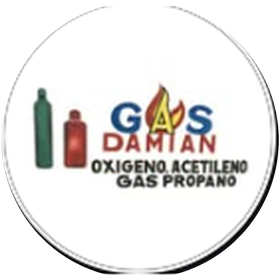
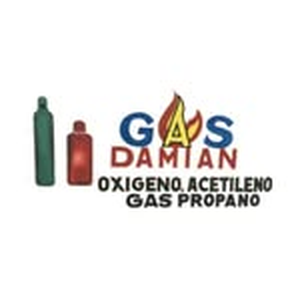
feat: Gas Damian Admin, el programa del dueno (productos y precios, facturas, cobros, reportes de ventas y usuarios)
Tambien usa el logo del perfil de Instagram de Gas Damian.

diff --git a/src/renderer/components/Layout.tsx b/src/renderer/components/Layout.tsx
@@ -1,7 +1,7 @@
 import React, { useEffect, useState } from "react";
 import { NavLink, Outlet } from "react-router-dom";
 import { isPreviewMode } from "../lib/api";
-import { EDICION, esColmado, esVariantCaja, manejaEnvases, operaCaja, soloVentas } from "../lib/variant";
+import { adminVentas, EDICION, esColmado, esVariantCaja, manejaEnvases, operaCaja, soloVentas } from "../lib/variant";
 import { useAuth } from "../lib/auth";
 import ConnectionBanner from "./ConnectionBanner";
 import Logo from "./Logo";
@@ -100,7 +100,7 @@ const NAV_CAJA = [
   { section: "Sistema", items: [{ to: "/configuracion", label: "Configuracion" }] },
 ];
 
-// Punto de Venta Dara: solo vender (con su caja) y clientes.
+// Gas Damian: solo vender (con su caja) y clientes.
 const NAV_PUNTO_VENTA = [
   {
     section: "Ventas",
@@ -117,6 +117,35 @@ const NAV_PUNTO_VENTA = [
     ],
   },
   { section: "Sistema", items: [{ to: "/configuracion", label: "Configuracion" }] },
+];
+
+// Gas Damian Admin: el programa del dueno.
+const NAV_ADMIN_VENTAS = [
+  {
+    section: "Ventas",
+    items: [
+      { to: "/caja", label: "Punto de venta" },
+      { to: "/facturas", label: "Facturas", end: true },
+      { to: "/cuentas-por-cobrar", label: "Cuentas por Cobrar" },
+      { to: "/cierres-caja", label: "Cierres de Caja" },
+    ],
+  },
+  {
+    section: "Clientes",
+    items: [
+      { to: "/clientes", label: "Clientes" },
+      { to: "/botellas-fiadas", label: "Botellas fiadas" },
+    ],
+  },
+  {
+    section: "Productos",
+    items: [
+      { to: "/productos", label: "Productos y precios" },
+      { to: "/envases", label: "Control de Envases" },
+    ],
+  },
+  { section: "Reportes", items: [{ to: "/reportes/ventas", label: "Reporte de Ventas" }] },
+  { section: "Sistema", items: [{ to: "/configuracion", label: "Configuracion y usuarios" }] },
 ];
 
 // Darasistema Colmado: un solo programa, con la caja primero.
@@ -181,7 +210,7 @@ export default function Layout() {
   const { usuario, logout } = useAuth();
 
   const mostrarCaja = esVariantCaja || usuario?.rol === "CAJERO";
-  const nav = (soloVentas ? NAV_PUNTO_VENTA : mostrarCaja ? NAV_CAJA : esColmado ? NAV_COLMADO : NAV_COMPLETO)
+  const nav = (adminVentas && usuario?.rol === "ADMIN" ? NAV_ADMIN_VENTAS : soloVentas ? NAV_PUNTO_VENTA : mostrarCaja ? NAV_CAJA : esColmado ? NAV_COLMADO : NAV_COMPLETO)
     .filter((g) => g.section !== "Sistema" || usuario?.rol === "ADMIN")
     .map((g) => ({ ...g, items: g.items.filter((i) => manejaEnvases || i.to !== "/envases") }));
   const [paleta, setPaleta] = useState(false);

diff --git a/src/renderer/App.tsx b/src/renderer/App.tsx
@@ -5,7 +5,7 @@ import { AuthProvider, useAuth } from "./lib/auth";
 import { CajaProvider } from "./lib/caja";
 import CierreCaja from "./pages/CierreCaja/CierreCaja";
 import CierresCaja from "./pages/CierreCaja/CierresCaja";
-import { esColmado, esVariantCaja, manejaEnvases, operaCaja, soloVentas } from "./lib/variant";
+import { adminVentas, esColmado, esVariantCaja, manejaEnvases, operaCaja, soloVentas } from "./lib/variant";
 import Layout from "./components/Layout";
 import Login from "./pages/Login/Login";
 import ConfigurarConexion from "./pages/Configuracion/ConfigurarConexion";
@@ -55,7 +55,7 @@ const RUTAS_COMUNES = [
   ...(manejaEnvases ? [{ path: "/envases", element: <ControlEnvases /> }] : []),
 ];
 
-// Punto de Venta Dara: vender, su caja y clientes (la factura se abre desde el cliente para reimprimir).
+// Gas Damian: vender, su caja y clientes (la factura se abre desde el cliente para reimprimir).
 const RUTAS_PUNTO_VENTA = [
   { path: "/caja", element: <Caja /> },
   { path: "/cierre-caja", element: <CierreCaja /> },
@@ -63,6 +63,17 @@ const RUTAS_PUNTO_VENTA = [
   { path: "/clientes/:id", element: <DetalleCliente /> },
   { path: "/botellas-fiadas", element: <BotellasFiadas /> },
   { path: "/facturas/:id", element: <DetalleFactura /> },
+];
+
+// Gas Damian Admin: lo que el dueno agrega a la caja (sin contabilidad, compras ni gastos).
+const RUTAS_ADMIN_VENTAS = [
+  { path: "/facturas", element: <ListaFacturas /> },
+  { path: "/cuentas-por-cobrar", element: <CuentasPorCobrar /> },
+  { path: "/cierres-caja", element: <CierresCaja /> },
+  { path: "/productos", element: <ListaProductos /> },
+  { path: "/envases", element: <ControlEnvases /> },
+  { path: "/reportes/ventas", element: <ReporteVentas /> },
+  { path: "/configuracion", element: <Configuracion /> },
 ];
 
 // Rutas adicionales solo para administradores (no cajeros, no la variante Caja).
@@ -96,8 +107,8 @@ function RutasProtegidas({ modoNube }: { modoNube: boolean }) {
   const hijos = usuario
     ? [
         ...(soloVentas ? RUTAS_PUNTO_VENTA : RUTAS_COMUNES),
-        ...(restringido ? rutaConexionCaja : RUTAS_ADMIN_EXTRA),
-        { path: "*", element: <Navigate to={restringido || esColmado ? "/caja" : "/"} replace /> },
+        ...(adminVentas ? (restringido ? [] : RUTAS_ADMIN_VENTAS) : restringido ? rutaConexionCaja : RUTAS_ADMIN_EXTRA),
+        { path: "*", element: <Navigate to={restringido || esColmado || soloVentas ? "/caja" : "/"} replace /> },
       ]
     : [];
 

diff --git a/src/renderer/lib/variant.ts b/src/renderer/lib/variant.ts
@@ -3,13 +3,16 @@
 //   caja        = Cajapunto1 (la caja del negocio de gas)
 //   colmado     = Darasistema Colmado (la oficina del colmado)
 //   cajacolmado = Cajapunto1 Colmado (la caja del colmado: factura rapida en tabla)
-//   puntoventa  = Punto de Venta Dara (solo vender y clientes; factura en hoja carta con firmas)
-export type Variante = "caja" | "full" | "colmado" | "cajacolmado" | "puntoventa";
+//   puntoventa  = Gas Damian (la caja: solo vender y clientes; factura en hoja carta con firmas)
+//   puntoventaadmin = Gas Damian Admin (el dueno: ventas, clientes, productos y precios, reportes de ventas y usuarios)
+export type Variante = "caja" | "full" | "colmado" | "cajacolmado" | "puntoventa" | "puntoventaadmin";
 export const APP_VARIANT: Variante = (import.meta.env.VITE_APP_VARIANT as Variante) || "full";
 // Es el programa de la caja (pantallas de cajero; la oficina queda en el otro programa).
 export const esVariantCaja = APP_VARIANT === "caja" || APP_VARIANT === "cajacolmado" || APP_VARIANT === "puntoventa";
-// Solo vender y clientes (Punto de Venta Dara).
-export const soloVentas = APP_VARIANT === "puntoventa";
+// Gas Damian: su logo, factura en hoja carta y botellas fiadas (la caja y el programa del dueno).
+export const soloVentas = APP_VARIANT === "puntoventa" || APP_VARIANT === "puntoventaadmin";
+// Gas Damian Admin: ademas de vender, productos y precios, reportes de ventas y usuarios (sin contabilidad).
+export const adminVentas = APP_VARIANT === "puntoventaadmin";
 // Es para un colmado (productos con grupo y codigo de barras, sin envases).
 export const esColmado = APP_VARIANT === "colmado" || APP_VARIANT === "cajacolmado";
 // Abre, opera y cierra la caja en esta computadora.
@@ -23,6 +26,7 @@ const EDICIONES = {
   colmado: { nombre: "Darasistema Colmado", lema: "Administracion del colmado" },
   cajacolmado: { nombre: "Cajapunto1 Colmado", lema: "Facturacion rapida" },
   puntoventa: { nombre: "Gas Damian", lema: "Oxigeno · Acetileno · Gas propano" },
+  puntoventaadmin: { nombre: "Gas Damian Admin", lema: "Oxigeno · Acetileno · Gas propano" },
 } as const;
 export const EDICION = EDICIONES[APP_VARIANT];
 

diff --git a/scripts/set-variant.js b/scripts/set-variant.js
@@ -4,13 +4,14 @@ const path = require("path");
 // full = Darasistema (oficina, gas) · caja = Cajapunto1 · colmado = Darasistema Colmado (oficina del colmado)
 // cajacolmado = Cajapunto1 Colmado (la caja del colmado, factura en tabla)
 // puntoventa = Gas Damian (solo vender y clientes, con apertura y cierre de caja)
-const VARIANTES = ["full", "caja", "colmado", "cajacolmado", "puntoventa"];
+// puntoventaadmin = Gas Damian Admin (el dueno: ademas productos y precios, reportes de ventas y usuarios)
+const VARIANTES = ["full", "caja", "colmado", "cajacolmado", "puntoventa", "puntoventaadmin"];
 const variant = VARIANTES.includes(process.argv[2]) ? process.argv[2] : "full";
 const target = path.join(__dirname, "..", "electron", "variant.generated.ts");
 
 fs.writeFileSync(
   target,
-  `// Generado por scripts/set-variant.js antes de cada build. No editar a mano.\nexport const APP_VARIANT: "caja" | "full" | "colmado" | "cajacolmado" | "puntoventa" = "${variant}";\n`
+  `// Generado por scripts/set-variant.js antes de cada build. No editar a mano.\nexport const APP_VARIANT: "caja" | "full" | "colmado" | "cajacolmado" | "puntoventa" | "puntoventaadmin" = "${variant}";\n`
 );
 
 console.log(`[set-variant] electron/variant.generated.ts -> "${variant}"`);

diff --git a/src/renderer/pages/Productos/ListaProductos.tsx b/src/renderer/pages/Productos/ListaProductos.tsx
@@ -4,7 +4,7 @@ import type { Cuenta, Producto } from "../../lib/types";
 import { formatMoney } from "../../lib/format";
 import { Badge, Button, EmptyRow, Input, Modal, PageHeader, Select, Table } from "../../components/ui";
 import { useAuth } from "../../lib/auth";
-import { esColmado, esVariantCaja, GRUPOS_COLMADO } from "../../lib/variant";
+import { esColmado, esVariantCaja, GRUPOS_COLMADO, soloVentas } from "../../lib/variant";
 import { mensajeDeError } from "../../lib/api";
 import { ProveedoresDeProductoModal } from "../Proveedores/componentes";
 
@@ -48,7 +48,7 @@ function calcularPrecio(costo: number, margenPct: number): number {
 
 export default function ListaProductos() {
   const { usuario } = useAuth();
-  const verProveedores = !esVariantCaja && usuario?.rol === "ADMIN";
+  const verProveedores = !esVariantCaja && !soloVentas && usuario?.rol === "ADMIN";
   const [proveedoresDe, setProveedoresDe] = useState<Producto | null>(null);
   const [productos, setProductos] = useState<Producto[]>([]);
   const [cuentas, setCuentas] = useState<Cuenta[]>([]);

diff --git a/src/renderer/pages/Facturacion/ListaFacturas.tsx b/src/renderer/pages/Facturacion/ListaFacturas.tsx
@@ -4,6 +4,7 @@ import { api } from "../../lib/api";
 import type { Factura } from "../../lib/types";
 import { formatDate, formatMoney } from "../../lib/format";
 import { Badge, Button, EmptyRow, PageHeader, Table } from "../../components/ui";
+import { soloVentas } from "../../lib/variant";
 
 export default function ListaFacturas() {
   const [facturas, setFacturas] = useState<Factura[]>([]);
@@ -18,9 +19,16 @@ export default function ListaFacturas() {
         title="Facturas"
         subtitle="Facturacion de ventas con NCF e ITBIS"
         actions={
-          <Link to="/facturas/nueva">
-            <Button>+ Nueva Factura</Button>
-          </Link>
+          // Gas Damian factura desde el punto de venta
+          soloVentas ? (
+            <Link to="/caja">
+              <Button>+ Vender</Button>
+            </Link>
+          ) : (
+            <Link to="/facturas/nueva">
+              <Button>+ Nueva Factura</Button>
+            </Link>
+          )
         }
       />
 

diff --git a/electron/network/config.ts b/electron/network/config.ts
@@ -20,7 +20,7 @@ export const NUBE_URL_POR_DEFECTO = "https://darasistema.ranghd732.workers.dev";
 // actualizacion automatica nunca "pierde" de vista los datos de quien ya la usa.
 function configPorDefecto(): ConfigRed {
   const base = { puerto: 4500, nubeUrl: NUBE_URL_POR_DEFECTO };
-  if (APP_VARIANT !== "caja" && APP_VARIANT !== "cajacolmado" && APP_VARIANT !== "puntoventa" && fs.existsSync(path.join(app.getPath("userData"), "darasistema.db"))) {
+  if (APP_VARIANT !== "caja" && APP_VARIANT !== "cajacolmado" && APP_VARIANT !== "puntoventa" && APP_VARIANT !== "puntoventaadmin" && fs.existsSync(path.join(app.getPath("userData"), "darasistema.db"))) {
     return { ...base, modo: "SERVIDOR" };
   }
   return { ...base, modo: "NUBE" };

diff --git a/scripts/release.js b/scripts/release.js
@@ -20,6 +20,7 @@ const variantes = [
   { nombre: 'colmado', config: 'electron-builder.colmado.yml' },
   { nombre: 'cajacolmado', config: 'electron-builder.cajacolmado.yml' },
   { nombre: 'puntoventa', config: 'electron-builder.puntoventa.yml' },
+  { nombre: 'puntoventaadmin', config: 'electron-builder.puntoventaadmin.yml' },
 ];
 
 for (const v of variantes) {
@@ -34,4 +35,4 @@ for (const v of variantes) {
 const version = require('../package.json').version;
 run(`gh release edit v${version} --draft=false --latest`);
 
-console.log('\nListo. Las cinco apps publicadas en GitHub Releases.');
+console.log('\nListo. Las seis apps publicadas en GitHub Releases.');

diff --git a/electron/main.ts b/electron/main.ts
@@ -27,7 +27,7 @@ import { APP_VARIANT } from "./variant.generated";
 
 const isDev = process.env.NODE_ENV === "development";
 
-const NOMBRES = { full: "Darasistema", caja: "Cajapunto1", colmado: "Darasistema Colmado", cajacolmado: "Cajapunto1 Colmado", puntoventa: "Gas Damian" } as const;
+const NOMBRES = { full: "Darasistema", caja: "Cajapunto1", colmado: "Darasistema Colmado", cajacolmado: "Cajapunto1 Colmado", puntoventa: "Gas Damian", puntoventaadmin: "Gas Damian Admin" } as const;
 app.setName(NOMBRES[APP_VARIANT]);
 
 async function registerAllIpc() {

diff --git a/src/renderer/pages/Facturacion/DetalleFactura.tsx b/src/renderer/pages/Facturacion/DetalleFactura.tsx
@@ -23,7 +23,7 @@ export default function DetalleFactura() {
   const navigate = useNavigate();
   const { usuario } = useAuth();
   const { sesion, usaCaja } = useCaja();
-  const verContabilidad = !esVariantCaja && usuario?.rol === "ADMIN";
+  const verContabilidad = !esVariantCaja && !soloVentas && usuario?.rol === "ADMIN";
   const [asientos, setAsientos] = useState<AsientoConLineas[]>([]);
   const [imprimiendo, setImprimiendo] = useState(false);
   const location = useLocation();

diff --git a/electron/db/index.ts b/electron/db/index.ts
@@ -18,7 +18,7 @@ export async function getDb(): Promise<DB> {
   db.exec(SCHEMA_SQL);
   migrar(db);
   seedIfEmpty(db, APP_VARIANT === "colmado" || APP_VARIANT === "cajacolmado" ? "colmado" : "gas");
-  seedUsuarios(db, APP_VARIANT === "puntoventa");
+  seedUsuarios(db, APP_VARIANT === "puntoventa" || APP_VARIANT === "puntoventaadmin");
   db.persist();
 
   return db;

diff --git a/electron/variant.generated.ts b/electron/variant.generated.ts
@@ -1,2 +1,2 @@
 // Generado por scripts/set-variant.js antes de cada build. No editar a mano.
-export const APP_VARIANT: "caja" | "full" | "colmado" | "cajacolmado" | "puntoventa" = "caja";
+export const APP_VARIANT: "caja" | "full" | "colmado" | "cajacolmado" | "puntoventa" | "puntoventaadmin" = "caja";
